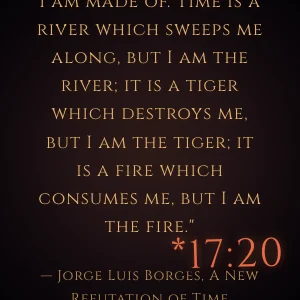
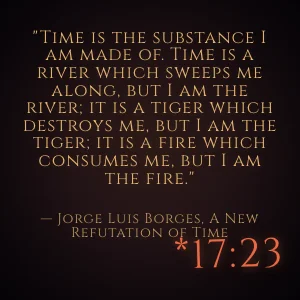
x

diff --git a/src/pages/2026/26-07/26-07-12/Clock.tsx b/src/pages/2026/26-07/26-07-12/Clock.tsx
@@ -13,7 +13,7 @@ const styles: { [key: string]: React.CSSProperties } = {
     background: 'radial-gradient(circle at center, #2d1a18 0%, #110912 100%)',
     color: '#f4ede2', // Aged parchment white
     fontFamily: '"Cinzel", "Playfair Display", "Georgia", serif',
-    padding: '8vmin',
+    padding: '2vmin',
     boxSizing: 'border-box',
     textAlign: 'center',
     overflow: 'hidden',
@@ -38,7 +38,7 @@ const styles: { [key: string]: React.CSSProperties } = {
     fontSize: 'clamp(1.1rem, 2.5vmin, 2.2rem)',
     fontWeight: '300',
     fontStyle: 'italic',
-    lineHeight: '1.6',
+    lineHeight: '1.0',
     color: '#e2b36e', // Dusty gold leaf
     textShadow: '0 2px 10px rgba(226, 179, 110, 0.15)',
     maxWidth: '90%',
